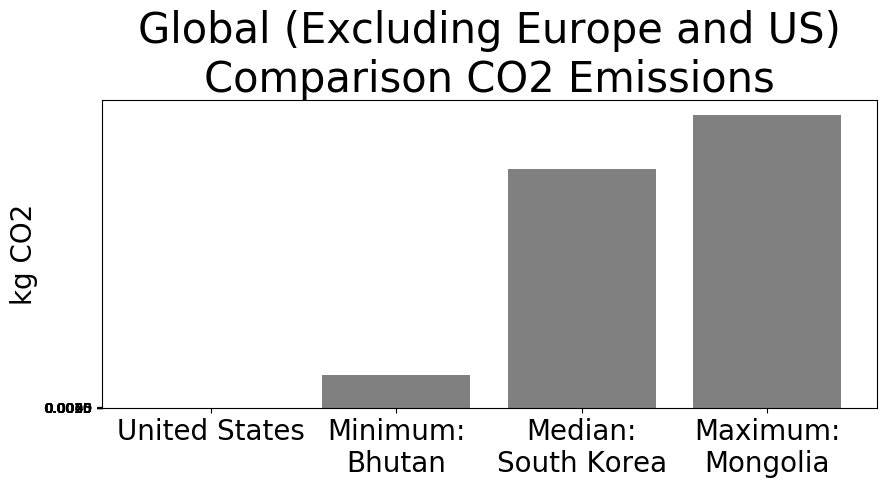
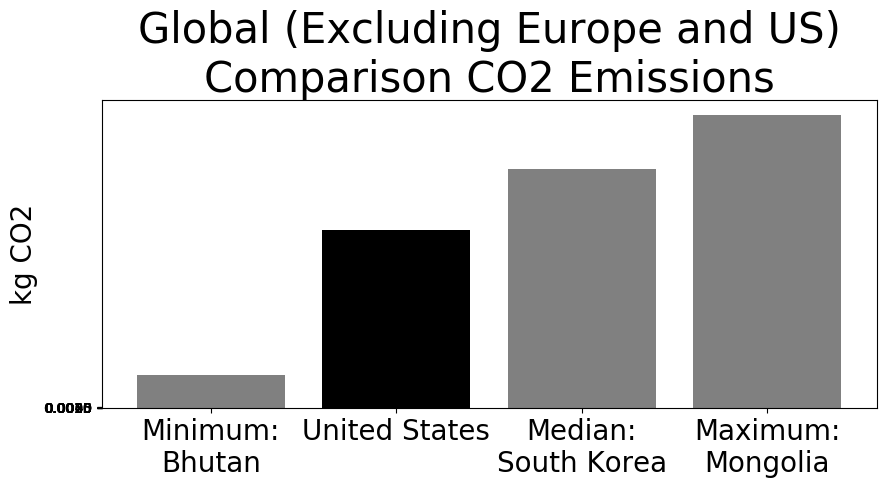
ckecking png

Changed region(s): [[0.1213, 0.4611, 0.5461, 0.9836]]

diff --git a/energyusage/graph.py b/energyusage/graph.py
@@ -96,11 +96,3 @@ def modify_dict(comparison_dict, location_key, location_value):
     new_key = "Maximum:\n" + sorted_keys[2]
     comparison_dict[new_key] = comparison_dict.pop(sorted_keys[2])
     comparison_dict[location_key] = location_value
-
-us_dict = {"Wyoming" : 4.21e-03, "Mississippi" : 1.95e-03, "Vermont" : 1.18e-04}
-eu_dict = {"Kosovo" : 4.32e-03, "Ukraine" : 3.02e-03, "Iceland" : 7.77e-04}
-global_dict = {"Mongolia" : 4.23e-03, "South Korea" : 3.45e-03, "Bhutan" : 4.81e-04}
-print(us_dict)
-print(eu_dict)
-print(global_dict)
-global_dict = {"Mongolia" : 4.23e-03, "South Korea" : 3.45e-03, "Bhutan" : 4.81e-04}

diff --git a/energyusage/evaluate.py b/energyusage/evaluate.py
@@ -316,7 +316,7 @@ def png_bar_chart(location, emission, default_emissions):
     print(global_dict)
     print(eu_dict)
     print(us_dict)
-    graph.make_comparison_bar_charts(location, 1.78e-03, us_dict, eu_dict, global_dict)
+    graph.make_comparison_bar_charts(location, emission, us_dict, eu_dict, global_dict)
 
 def evaluate(user_func, *args, pdf=False, png = False, powerLoss=0.8, energyOutput=False, \
 locations=["Mongolia", "Iceland", "Switzerland"], year="2016", printToScreen = True):

diff --git a/energyusage/test_report.py b/energyusage/test_report.py
@@ -11,4 +11,4 @@ def exp(n):
         linear(1)
         
 #evaluate.evaluate(exp, 10, pdf=True,  png=True)
-report.generate_mlco2(3, 1.78e-03, png=True)
+report.generate_mlco2(3, 1.68, png=True)
